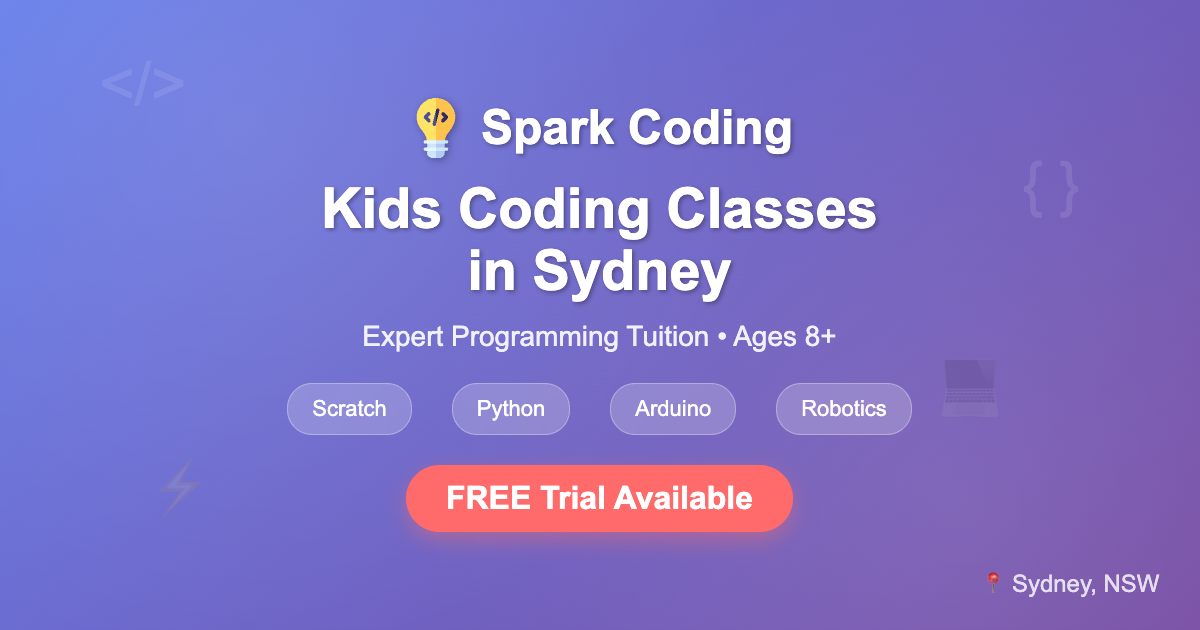
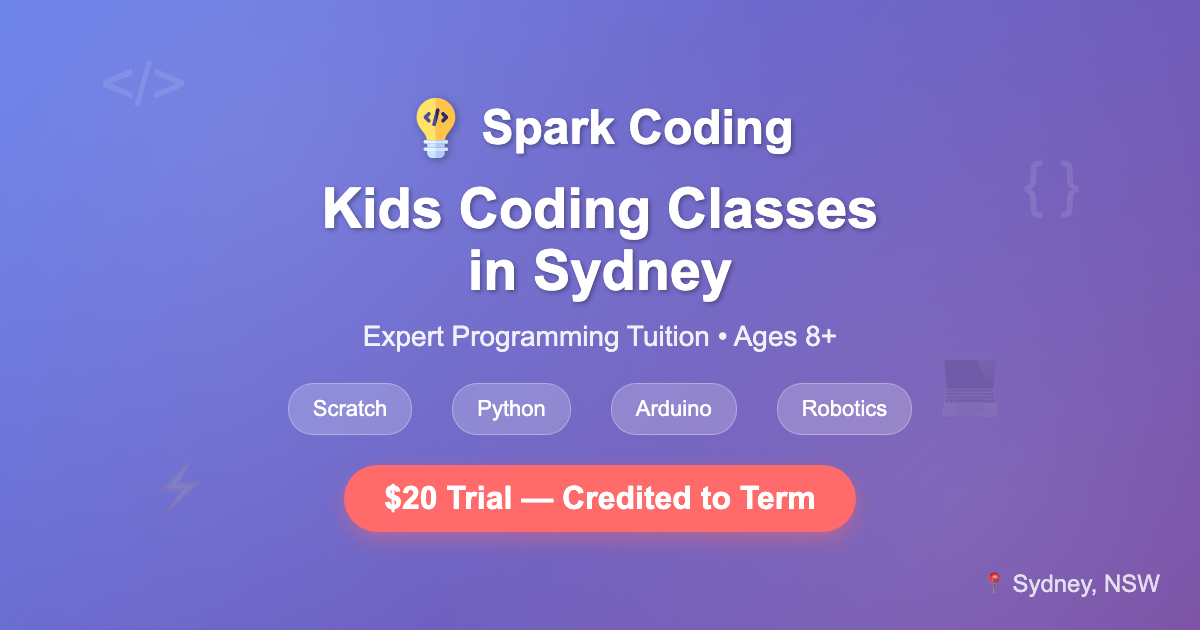
Trial: replace free trial with $20 deposit (credited to first term)
- index.pug: reframe copy, JSON-LD Offer price 0->20, Cal embed -> trial slug + namespace
- brochures (bizcard/DL/trifold) + og-image-generator: $20 trial framing
- regenerate og-image.png

diff --git a/brochure/brochure-trifold.html b/brochure/brochure-trifold.html
@@ -619,15 +619,15 @@
         </div>
 
         <div class="free-trial-badge">
-            <i class="bi bi-gift"></i>&nbsp; FREE Trial Session
+            <i class="bi bi-gift"></i>&nbsp; $20 Trial Session
         </div>
     </div>
 
     <!-- OUTSIDE CENTRE = Back Cover -->
     <div class="panel back-cover">
         <div class="cta-box">
-            <h3>Book Your FREE Trial</h3>
-            <p>No commitment required.<br>See the difference personalised coding tuition makes.</p>
+            <h3>Book Your $20 Trial</h3>
+            <p>Credited to your first term.<br>See the difference personalised coding tuition makes.</p>
         </div>
 
         <div class="qr-placeholder">
@@ -818,8 +818,8 @@
         <div class="step">
             <div class="step-num">1</div>
             <div>
-                <div class="step-title">Book a FREE Trial</div>
-                <div class="step-desc">Visit our website or scan the QR code. Fill in a quick form — no commitment, no payment.</div>
+                <div class="step-title">Book a $20 Trial</div>
+                <div class="step-desc">Visit our website or scan the QR code. Pick a time and pay the $20 deposit — credited to your first term.</div>
             </div>
         </div>
 

diff --git a/brochure/brochure-bizcard.html b/brochure/brochure-bizcard.html
@@ -346,7 +346,7 @@
                 <div class="mini-feat"><i class="bi bi-people-fill"></i> Max 3 students per class</div>
                 <div class="mini-feat"><i class="bi bi-award-fill"></i> Instructor with 15+ yrs in big tech</div>
                 <div class="mini-feat"><i class="bi bi-signpost-split-fill"></i> Personalised learning paths</div>
-                <div class="mini-feat"><i class="bi bi-gift-fill"></i> Free trial — no commitment</div>
+                <div class="mini-feat"><i class="bi bi-gift-fill"></i> $20 trial — credited to your first term</div>
             </div>
         </div>
 
@@ -384,11 +384,11 @@
             <div class="qr-box">
                 <img src="../src/assets/img/qr.jpg" alt="Scan to visit sparkcoding.com.au">
             </div>
-            <div class="scan-text">Scan to book<br>FREE trial</div>
+            <div class="scan-text">Scan to book<br>your $20 trial</div>
         </div>
 
         <div class="cta-strip">
-            <i class="bi bi-gift"></i>&nbsp; Book your FREE trial today!
+            <i class="bi bi-gift"></i>&nbsp; Book your $20 trial today!
         </div>
     </div>
 </div>

diff --git a/brochure/brochure-dl-card.html b/brochure/brochure-dl-card.html
@@ -499,8 +499,8 @@
         </div>
 
         <div class="cta-bar">
-            <div class="cta-text"><i class="bi bi-gift"></i>&nbsp; FREE Trial Session</div>
-            <div class="cta-sub">No commitment required — see reverse for details</div>
+            <div class="cta-text"><i class="bi bi-gift"></i>&nbsp; $20 Trial Session</div>
+            <div class="cta-sub">Credited to your first term — see reverse for details</div>
         </div>
 
     </div>

diff --git a/og-image-generator.html b/og-image-generator.html
@@ -169,7 +169,7 @@
             <div class="feature">Robotics</div>
         </div>
         
-        <div class="cta">FREE Trial Available</div>
+        <div class="cta">$20 Trial — Credited to Term</div>
         
         <div class="location">📍 Sydney, NSW</div>
     </div>
